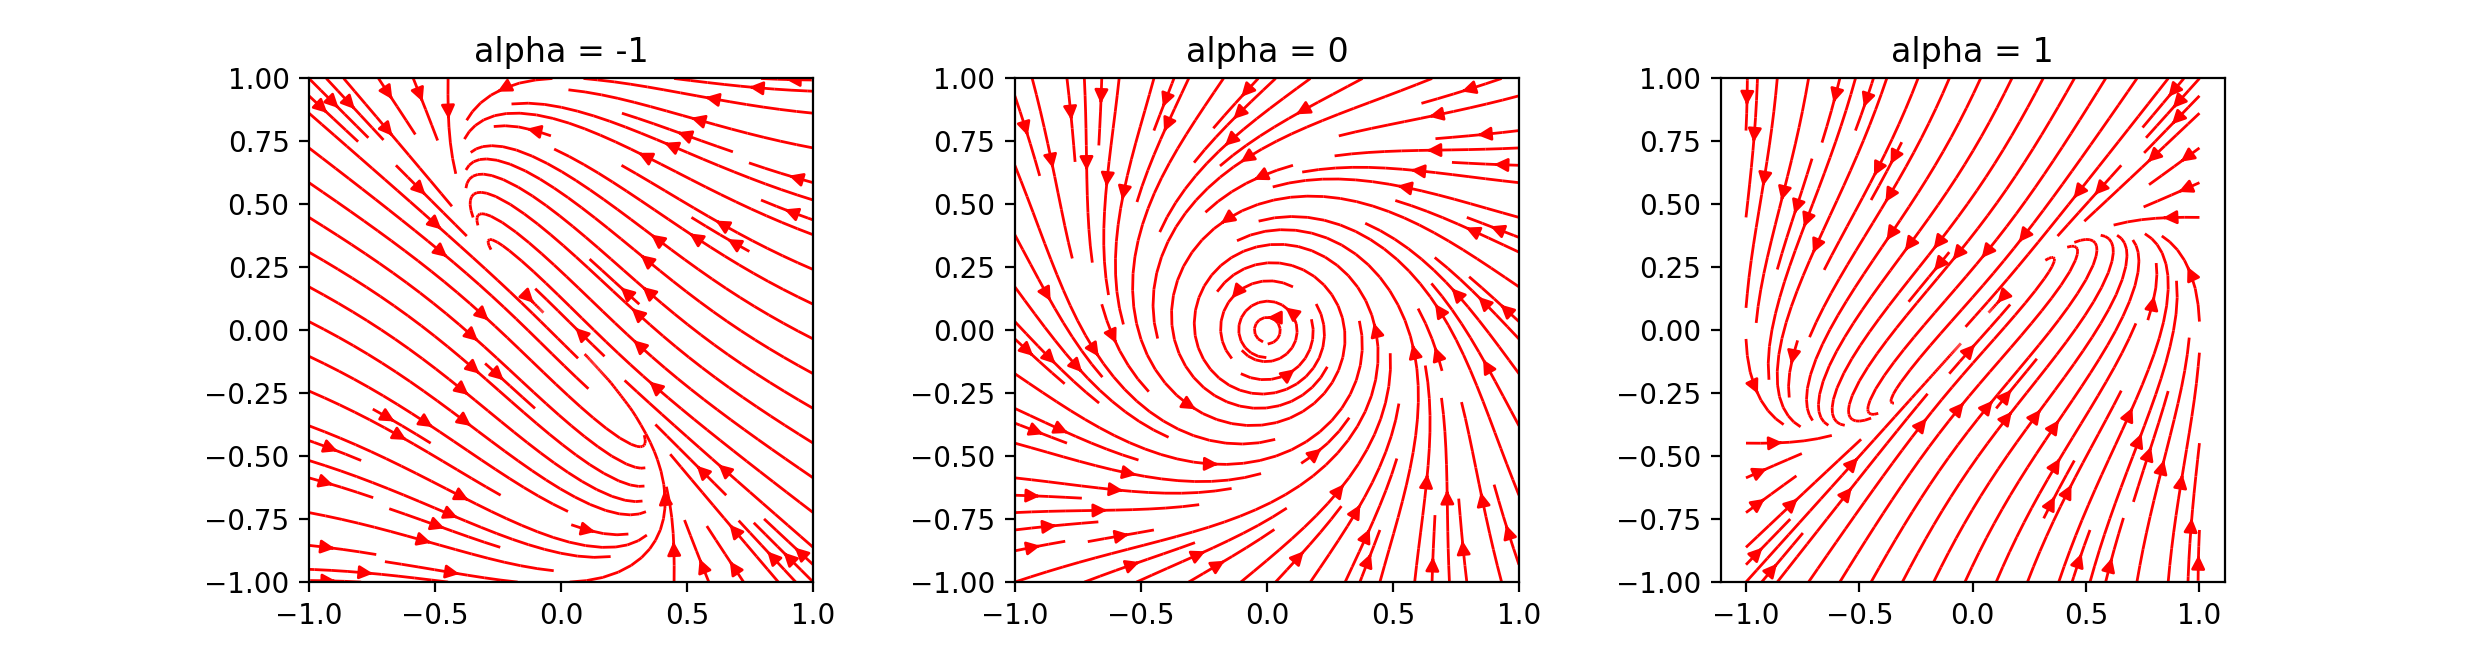
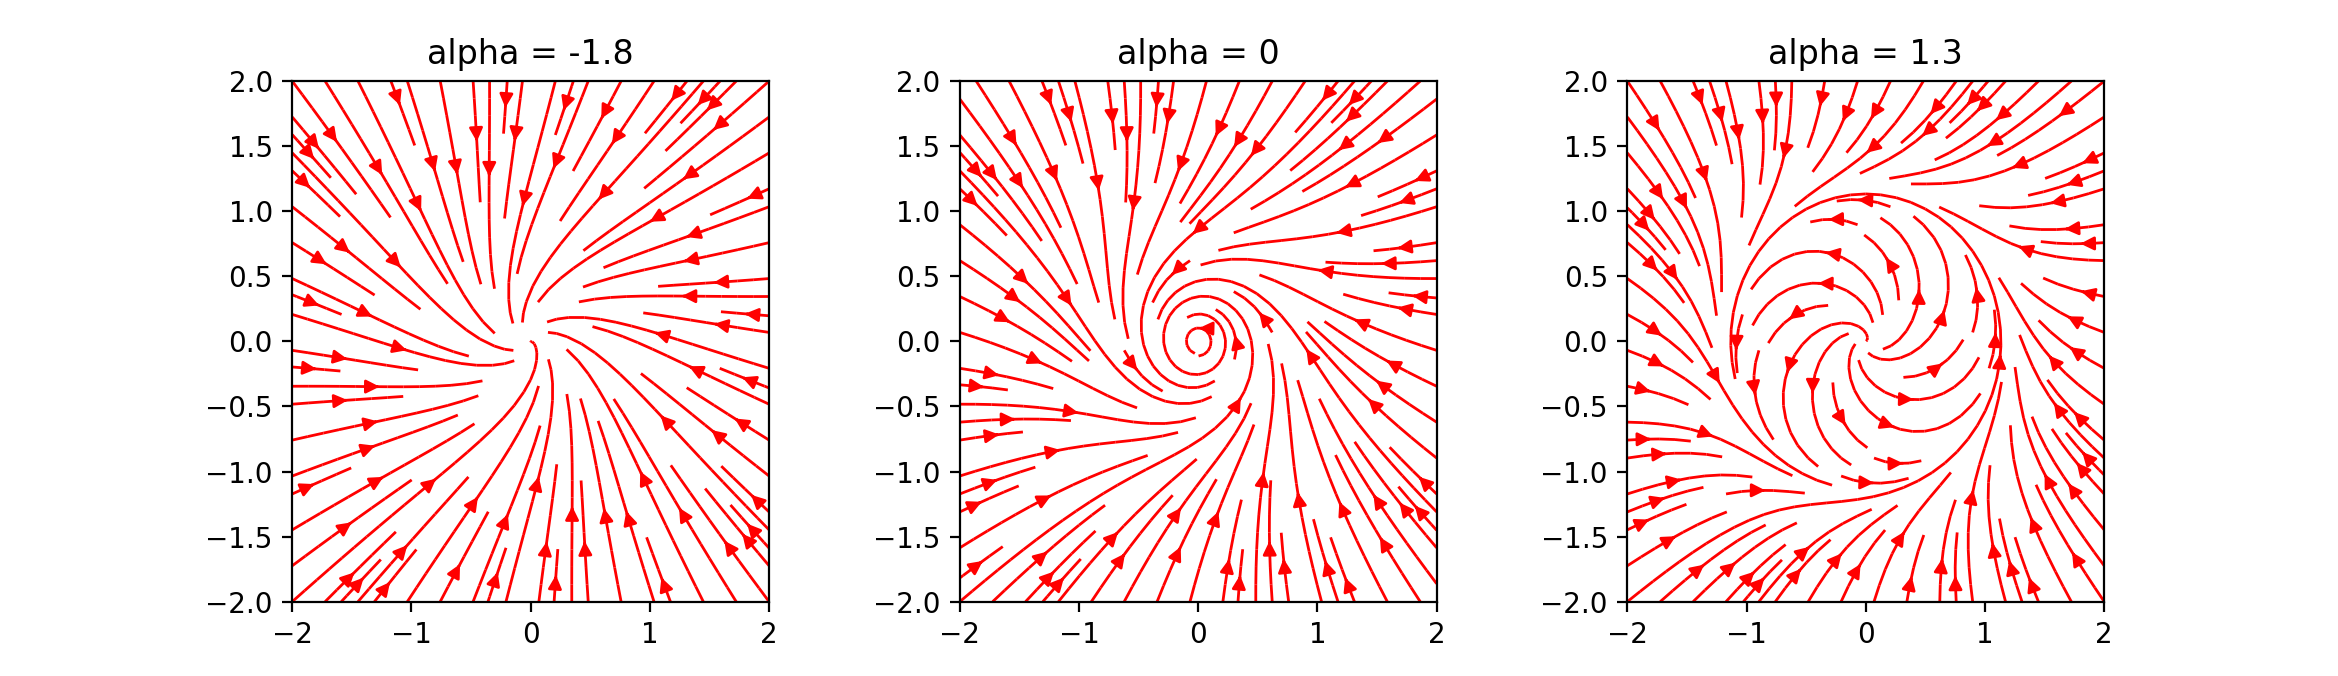
fix task 3 phase potraits

diff --git a/task3/task3.py b/task3/task3.py
@@ -1,18 +1,22 @@
 import matplotlib.pyplot as plt
 import numpy as np
 from scipy.integrate import solve_ivp
+from matplotlib import cm
+from matplotlib.ticker import LinearLocator, FormatStrFormatter
+import numpy as np
+from scipy.optimize import fsolve
 
 
 def draw_phase_portrait():
-    x = np.arange(-1, 1.1, 0.1)
+    x = np.arange(-2, 2.1, 0.1)
     x1, x2 = np.meshgrid(x, x)
 
-    alphas = [-1, 0, 1]
+    alphas = [-1.8, 0, 1.3]
     fig = plt.figure()
     fig.subplots_adjust(hspace=0.4, wspace=0.4)
     for index, alpha in enumerate(alphas, start=1):
         y1 = alpha * x1 - x2 - x1 * (x1 ** 2 + x2 ** 2)
-        y2 = x1 - alpha * x2 - x2 * (x1 ** 2 + x2 ** 2)
+        y2 = x1 + alpha * x2 - x2 * (x1 ** 2 + x2 ** 2)
         ax0 = fig.add_subplot(1, len(alphas), index)
         ax0.streamplot(x1, x2, y1, y2, color='r', linewidth=1)
         ax0.set_title("alpha = {}".format(alpha))
